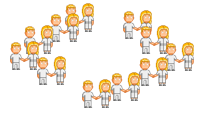
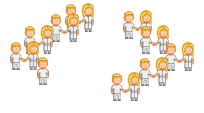
fix obnimashki

Changed region(s): [[0.3824, 0.6903, 0.5588, 0.9558], [0.2059, 0.4779, 0.3235, 0.7699]]

diff --git a/game/js/index.js b/game/js/index.js
@@ -77,7 +77,7 @@ var enemies = [];
 var defenders = [];
 
 function skillIsAvailable(name) {
-  if (name === 'obnimashki' && health > 80) {
+  if (name === 'obnimashki' && health >= 99) {
       return false;
   }
 
@@ -110,11 +110,11 @@ function buyRoofers() {
 }
 
 function buyObnimashki() {
-  if (health > 80) return;
+  if (health >= 99) return;
 
   buy('obnimashki');
 
-  heal(20);
+  heal(30, 2);
 }
 
 function buyRoizman() {
@@ -273,7 +273,7 @@ BasicGame.Boot.prototype =
 
         game.debug.text("Суперспособности:", 2, 25, "#a7aebe");
         game.debug.text("Руферы (Freeze)", 2, 72, "#a7aebe");
-        game.debug.text("Обнимашки (+20 hp)", 2, 108, "#a7aebe");
+        game.debug.text("Обнимашки (+30 hp)", 2, 108, "#a7aebe");
         game.debug.text("Ройзман", 2, 142, "#a7aebe");
 
         for (skill in skills) {
@@ -299,7 +299,7 @@ BasicGame.Boot.prototype =
                 if (skills[skill].sprite != null) {
                     skills[skill].sprite.visible = true;
                 } else {
-                    tile = game.add.isoSprite(110, 110, 0, 'friends', 0, isoGroup);
+                    tile = game.add.isoSprite(105, 110, 0, 'friends', 0, isoGroup);
                     tile.anchor.set(0.5, 1);
                     skills[skill].sprite = tile;
                 }
@@ -590,10 +590,13 @@ function hurt(points) {
     }
 }
 
-function heal(points) {
-    var result = health + points;
-    health = (result < 100) ? result : 100;
-    healthBar.setPercent(health);
+function heal(points, speed) {
+    if(points > 0){
+        var result = health + speed;
+        health = (result < 100) ? result : 100;
+        healthBar.setPercent(health);
+        timer.add(1000, heal.bind(this, points-speed, speed));
+    }
 }
 
 function spawnEnemy(gameClass){
